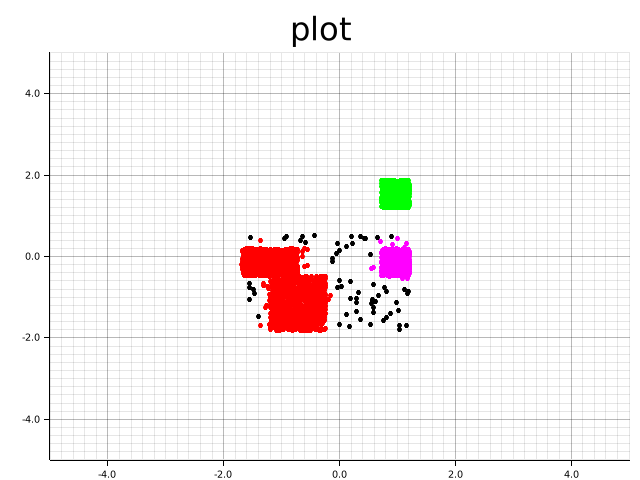
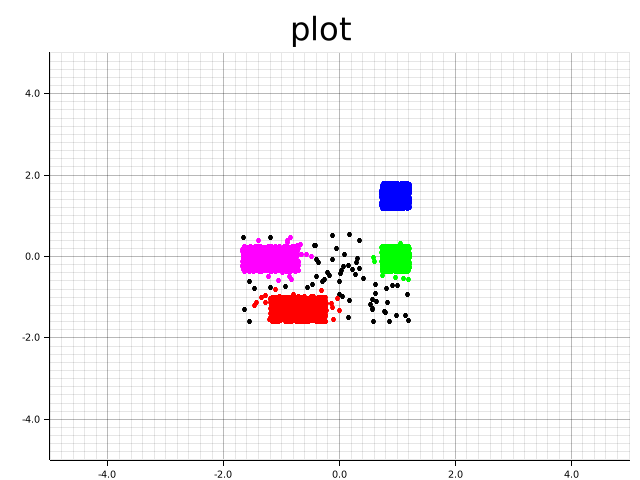
restructured model initialization

Changed region(s): [[0.375, 0.4688, 0.6562, 0.7188], [0.5938, 0.3438, 0.6562, 0.4375]]

diff --git a/src/cluster_algos/lloyd.rs b/src/cluster_algos/lloyd.rs
@@ -18,6 +18,36 @@ pub struct Kmeans {
 
 impl Kmeans {
 
+    pub fn new(data: &Array2<f32>, centers: i32) -> Kmeans {
+        Kmeans {
+            centers,
+            max_centers: 10,
+            accept: 0.7,
+            centroids: Array::<f32,_>::zeros((centers.to_usize().unwrap(), data.raw_dim()[1])),
+            partition: vec![0; data.shape()[0]],
+            initializer: "kmeans++",
+            max_iter: 100,
+            retries: 10
+        }
+    }
+
+    pub fn config_silhouette(&mut self, accepted_score: f32) {
+        self.accept = accepted_score;
+    }
+
+    pub fn set_initializer(&mut self, initializer: &'static str) {
+        self.initializer = initializer; 
+    }
+
+    pub fn set_fitting_time(&mut self, max_iter: i32, retries: i32) {
+        self.retries = retries;
+        self.max_iter = max_iter;
+    }
+
+    pub fn set_max_centers(&mut self, max_centers: i32) {
+        self.max_centers = max_centers;
+    }
+
     fn initialize(&mut self, data: &Array2<f32>, n_centers: i32){
         self.centroids = Array::<f32,_>::zeros((n_centers.to_usize().unwrap(), data.raw_dim()[1]));
         if self.initializer == "random_choice" {

diff --git a/src/main.rs b/src/main.rs
@@ -17,7 +17,7 @@ pub mod utils;
 pub mod plots;
 
 fn main() {
-    let cluster_size = 1000;
+    let cluster_size = 500;
     let noise_intensity = 20;
     let num_clusters = 4;
     let bounds = vec![vec![vec![1.0, 5.0], vec![1.0, 5.0]], vec![vec![1.0, 3.0], vec![5.0, 6.0]], vec![vec![5.0, 6.0], vec![1.0, 3.0]], vec![vec![5.0, 6.0], vec![5.0, 6.0]]];
@@ -25,16 +25,28 @@ fn main() {
     let mut data = get_data(noise_intensity, num_clusters, cluster_size, bounds);
 
     center_scale(&mut data);
+
+    let mut model = DBScan::new(&data);
+    model.set_epsilon(10e-2);
+    model.set_min_points(20);
+
+
+    let mut model_2 = Kmeans::new(&data, num_clusters);
+    model_2.set_fitting_time(1000, 20);
+
+
+    let mut model_3 = AgglomerativeCluster::new(&data, num_clusters.to_usize().unwrap());
     
+    /*
     let mut model = DBScan {
         min_points: 20,
         epsilon: 10e-2,
         is_in_cluster: HashSet::new(),
         is_visited: HashSet::new(),
-        is_noise: HashSet::new(),
         partitions: vec![0],
         current_clusters: 1
     };
+    */
     
     /* 
     let mut model = AgglomerativeCluster {

diff --git a/src/cluster_algos/agglomerative.rs b/src/cluster_algos/agglomerative.rs
@@ -1,5 +1,3 @@
-use std::cmp::min_by;
-
 use ndarray::prelude::*;
 use num::ToPrimitive;
 use crate::utils::mathfuncs::*;
@@ -12,6 +10,19 @@ pub struct AgglomerativeCluster {
 }
 
 impl AgglomerativeCluster {
+
+    pub fn new(data: &Array2<f32>, centers: usize) -> AgglomerativeCluster {
+        
+        let mut clusters = vec![vec![data.row(0).to_owned()]];
+        for i in 1..data.shape()[0]{
+            clusters.append(&mut vec![vec![data.row(i).to_owned()]]);
+        }
+        AgglomerativeCluster {
+            centers,
+            clusters: clusters
+        }
+    }
+
     fn initialize(&mut self, data: &Array2<f32>) {
         self.clusters = vec![vec![data.row(0).to_owned()]];
         for i in 1..data.shape()[0]{
@@ -49,7 +60,7 @@ impl AgglomerativeCluster {
                 }
             }
         }
-        return best;
+        best
     }
 
     fn get_partition(&self, data: &Array2<f32>) -> Vec<i32> {

diff --git a/src/cluster_algos/dbscan.rs b/src/cluster_algos/dbscan.rs
@@ -8,13 +8,33 @@ pub struct DBScan {
     pub min_points: usize,
     pub epsilon: f32,
     pub is_visited: HashSet<usize>,
-    pub is_noise: HashSet<usize>,
     pub is_in_cluster: HashSet<usize>,
     pub partitions: Vec<i32>,
     pub current_clusters: i32
 }
 
 impl DBScan {
+
+    pub fn new(data: &Array2<f32>) -> DBScan {
+
+        DBScan{
+            min_points: 10,
+            epsilon: 3e-1,
+            is_visited: HashSet::new(),
+            is_in_cluster: HashSet::new(),
+            partitions: vec![0; data.shape()[0]],
+            current_clusters: 1
+        }
+    }
+
+    pub fn set_min_points(&mut self, min_pts: usize) {
+        self.min_points = min_pts;
+    }
+
+    pub fn set_epsilon(&mut self, epsilon: f32) {
+        self.epsilon = epsilon;
+    }
+
     fn initialize(&mut self, data: &Array2<f32>) {
         self.partitions = vec![0; data.shape()[0]];
         self.current_clusters = 1;
